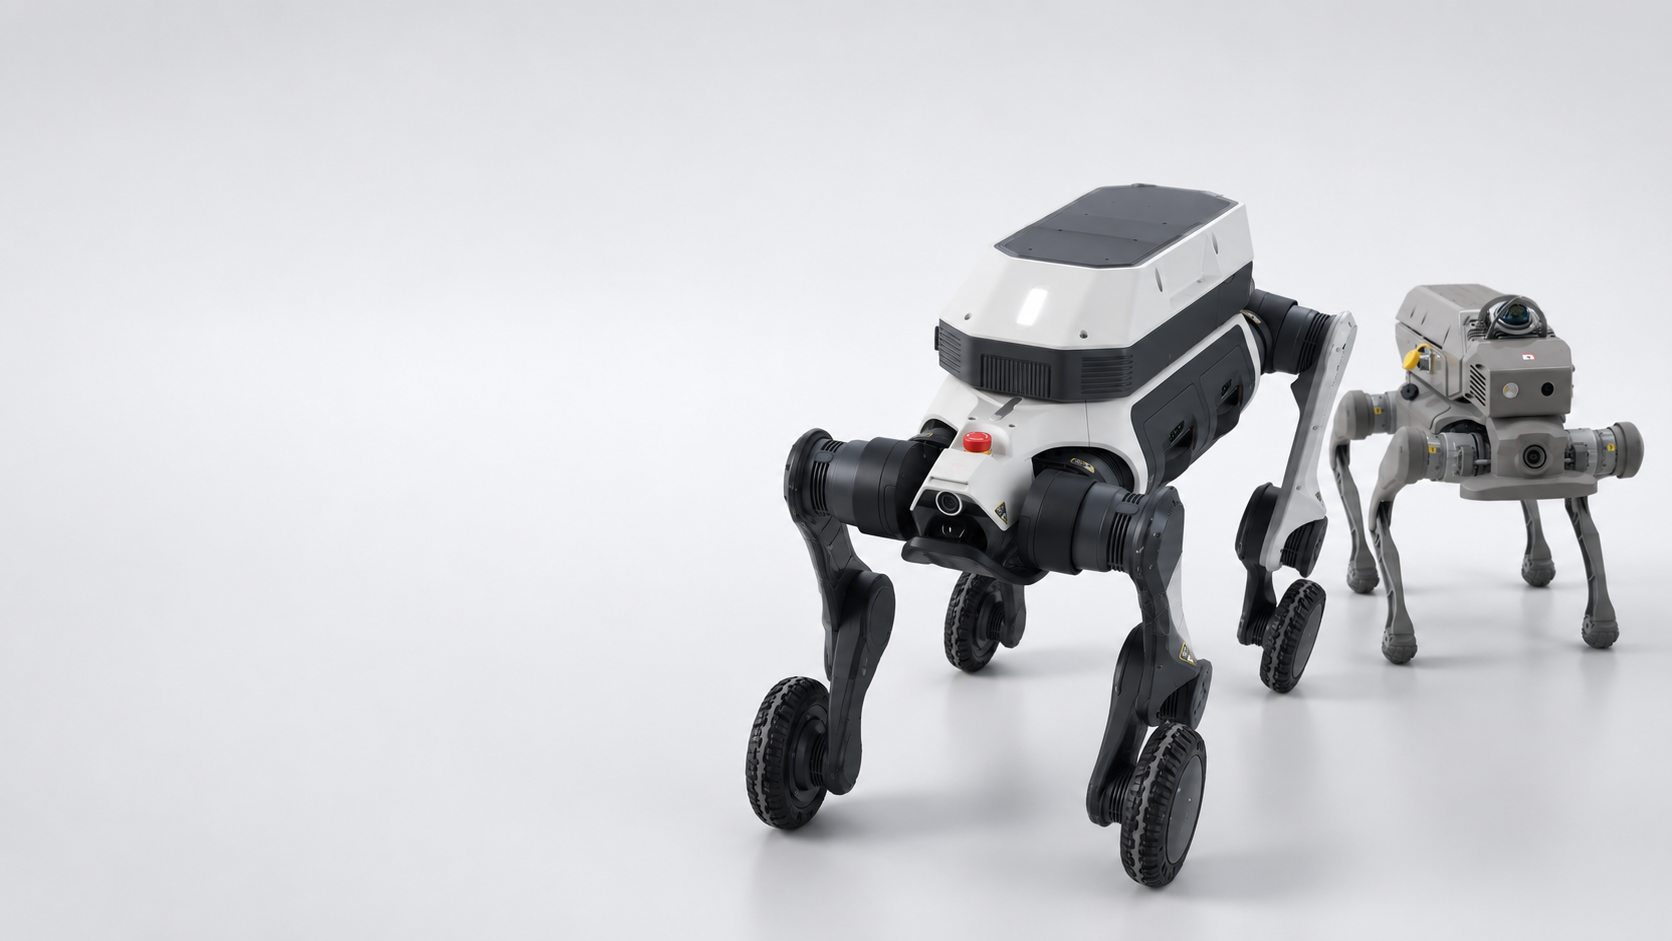
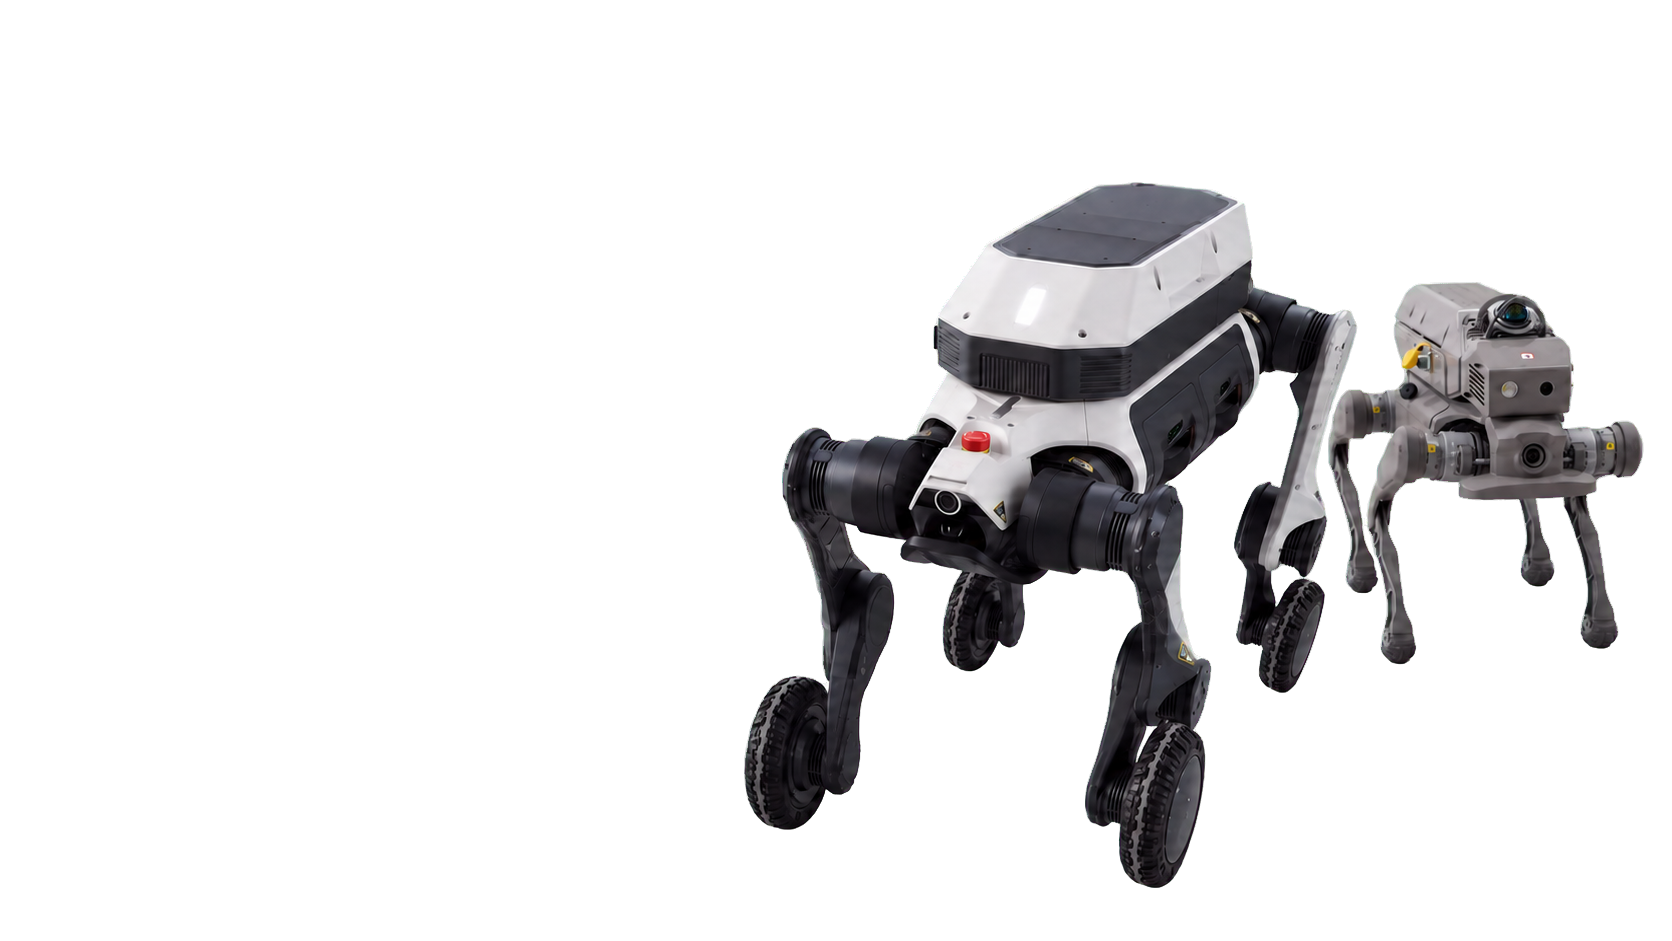
cta update

diff --git a/components/TianrongScenarioPage.tsx b/components/TianrongScenarioPage.tsx
@@ -138,25 +138,44 @@ const initialContactForm: ContactFormState = {
   captcha: ""
 };
 
+function getContactValidationMessage(value: string) {
+  const contact = value.trim();
+  if (!contact) return "请输入手机号或邮箱。";
+
+  const emailPattern = /^[^\s@]+@[^\s@]+\.[^\s@]{2,}$/;
+  const phonePattern = /^\+?[0-9][0-9\s-]{6,19}$/;
+  return emailPattern.test(contact) || phonePattern.test(contact) ? "" : "请输入有效的手机号或邮箱。";
+}
+
 export function TianrongScenarioPage() {
   const [contactForm, setContactForm] = useState<ContactFormState>(initialContactForm);
   const [contactStatus, setContactStatus] = useState("");
+  const [contactError, setContactError] = useState("");
 
   const updateContactField = (field: keyof ContactFormState, value: string) => {
     setContactForm((current) => ({ ...current, [field]: value }));
     setContactStatus("");
+    if (field === "contact") setContactError("");
   };
 
   const handleCaptchaRequest = () => {
-    setContactStatus(
-      contactForm.contact.trim()
-        ? "验证码发送接口待接入，当前已保留获取入口。"
-        : "请先填写联系方式，再获取验证码。"
-    );
+    const validationMessage = getContactValidationMessage(contactForm.contact);
+    if (validationMessage) {
+      setContactError(validationMessage);
+      setContactStatus("");
+      return;
+    }
+    setContactStatus("验证码发送接口待接入，当前已保留获取入口。");
   };
 
   const handleContactSubmit = (event: FormEvent<HTMLFormElement>) => {
     event.preventDefault();
+    const validationMessage = getContactValidationMessage(contactForm.contact);
+    if (validationMessage) {
+      setContactError(validationMessage);
+      setContactStatus("");
+      return;
+    }
     setContactStatus("信息已完成前端校验，正式提交接口待接入。请保留验证码校验。 ");
   };
 
@@ -488,7 +507,6 @@ export function TianrongScenarioPage() {
         <section id="contact" className="bg-[#161616] py-20 text-white md:py-28">
           <div className="mx-auto grid w-[min(1240px,calc(100%-32px))] gap-10 lg:grid-cols-[0.82fr_1.18fr] lg:gap-16">
             <div className="lg:pt-4">
-              <div className="text-sm font-bold uppercase tracking-[0.24em] text-[#68B7FF]">Project inquiry</div>
               <h2 className="cjk-heading mt-4 text-4xl font-semibold leading-[1.12] md:text-6xl">
                 <span className="block">让巡检方案</span>
                 <span className="block keep-phrase">进入真实现场</span>
@@ -514,7 +532,7 @@ export function TianrongScenarioPage() {
                 />
                 <div className="relative z-10 max-w-[48%] py-5">
                   <div className="text-xl font-semibold">项目咨询</div>
-                  <p className="mt-2 text-sm leading-6 text-[#737373]">请留下现场与项目需求，我们将据此匹配合适的产品和合作方式。</p>
+                  <p className="mt-2 text-sm leading-6 text-[#737373]">请留下应用场景与项目需求，我们将据此匹配合适的产品和合作方式。</p>
                 </div>
               </div>
 
@@ -526,10 +544,17 @@ export function TianrongScenarioPage() {
                   <Input id="contact-company" name="company" autoComplete="organization" required placeholder="请输入公司或单位名称" value={contactForm.company} onChange={(event) => updateContactField("company", event.target.value)} className="rounded-none border-[#D9DEE7]" />
                 </ContactField>
                 <ContactField label="联系方式" required>
-                  <Input id="contact-contact" name="contact" autoComplete="email" required placeholder="手机号或邮箱" value={contactForm.contact} onChange={(event) => updateContactField("contact", event.target.value)} className="rounded-none border-[#D9DEE7]" />
+                  <Input id="contact-contact" name="contact" autoComplete="email" required placeholder="手机号或邮箱" value={contactForm.contact} onChange={(event) => updateContactField("contact", event.target.value)} onBlur={() => setContactError(getContactValidationMessage(contactForm.contact))} aria-invalid={Boolean(contactError)} aria-describedby={contactError ? "contact-contact-error" : undefined} className="rounded-none border-[#D9DEE7]" />
+                  {contactError && <span id="contact-contact-error" className="mt-2 block text-sm text-[#D33A2C]">{contactError}</span>}
                 </ContactField>
                 <ContactField label="项目所在地" required>
-                  <Input id="contact-location" name="location" required placeholder="省 / 市 / 国家或地区" value={contactForm.location} onChange={(event) => updateContactField("location", event.target.value)} className="rounded-none border-[#D9DEE7]" />
+                  <Select id="contact-location" name="location" required value={contactForm.location} onChange={(event) => updateContactField("location", event.target.value)} className="rounded-none border-[#D9DEE7] text-[#525252]">
+                    <option value="" disabled>请选择项目所在地</option>
+                    <option>中国大陆</option>
+                    <option>中国香港</option>
+                    <option>美国</option>
+                    <option>其他国家或地区</option>
+                  </Select>
                 </ContactField>
                 <ContactField label="咨询方向" required>
                   <Select id="contact-direction" name="direction" required value={contactForm.direction} onChange={(event) => updateContactField("direction", event.target.value)} className="rounded-none border-[#D9DEE7] text-[#525252]">